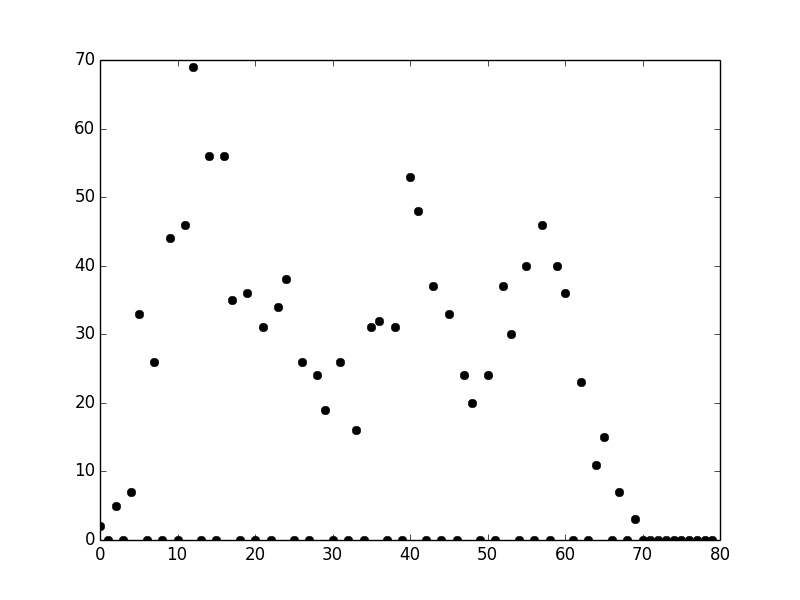
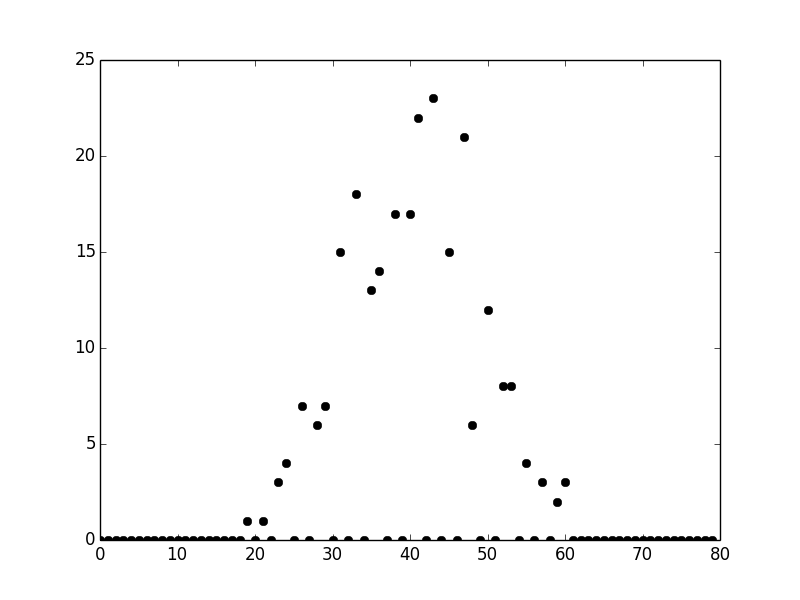
Add first serious midi file example
- one walker
- constant notelength
- constant scale

diff --git a/merw.py b/merw.py
@@ -1,6 +1,7 @@
 import numpy as np
 import matplotlib.pyplot as plt
 from potentials import *
+from merwmidi import make_midi
 
 class Merw(object):
     def __init__(self, size):
@@ -23,6 +24,7 @@ class Merw(object):
 
 if __name__ == '__main__':
 
+    N_ = 80
     # Calculate probability matix holding S
     merw = Merw(N_)
 
@@ -31,6 +33,8 @@ if __name__ == '__main__':
 
     # Prepare list of indexes
     values = range(N_)
+    # Pitches are what we actually calculate
+    pitches = [x + 30 for x in values]
 
     # Merw starting position set
     pos = 33
@@ -40,14 +44,14 @@ if __name__ == '__main__':
 
     # Prepare meta potential for testing
     # Number of iterations
-    N_ = 1250
+    N_ = 250
     def meta_pot(it):
         ret = 70.0 * (0.5 * (1.0 + np.cos(8.*it*np.pi/N_)))
         #print ret
         return ret
 
     for it in range(N_):
-        if (it%50 == 1):
+        if (it%50 == 0):
             print it, '/', N_, 'current position: ', pos
 
         # Histogram
@@ -59,6 +63,11 @@ if __name__ == '__main__':
 
         # Switcheroo
         pos = next_pos
+
+    # Create final pitches vector
+    merw_pitches = [pitches[pos] for pos in positions]
+    # Make midi file with calculated pitches
+    make_midi(merw_pitches)
 
 
     #S = merw.get_S(); plt.imshow(S); plt.show()

diff --git a/potentials.py b/potentials.py
@@ -36,20 +36,25 @@ class E_potential(object):
     def __init__(self, size):
         self.size = size
         self.prefered = 0
-        self.calc_A()
+
+        # Initialize interaction grid (piano keys)
+        self.scale = [1, 0, 1, 0, 1, 1, 0, 1, 0, 1, 0, 1]
+
+        # Based on that generate probability matrix S
 #        self.simple_A()
         self.calc_S()
 
+    def set_scale_shift(self, shift):
+        self.scale = np.roll(self.scale, shift)
+
     def set_prefered(self, prefered):
         self.prefered = prefered
-        self.calc_A()
         self.calc_S()
 
     def they_interact(self, i, j):
-        scale = [1, 0, 1, 0, 1, 1, 0, 1, 0, 1, 0, 1]
-        n = len(scale)
+        n = len(self.scale)
 
-        if scale[i%n] == scale[j%n] == 1: # Nice python!
+        if self.scale[i%n] == self.scale[j%n] == 1: # Nice python!
             return True
         # Else
         return False
@@ -97,6 +102,7 @@ class E_potential(object):
         self.A = A
 
     def calc_S(self):
+        self.calc_A()
         S = np.zeros(self.A.shape)
         d, V = lg.eigh(self.A, eigvals = (self.size-1, self.size-1))
         for it in range(self.size):

diff --git a/merwmidi.py b/merwmidi.py
@@ -1,0 +1,39 @@
+import numpy as np
+#Import the library
+from midiutil.MidiFile import MIDIFile
+
+def make_midi(pitches):
+    # Create the MIDIFile Object
+    MyMIDI = MIDIFile(1)
+
+    # Add track name and tempo. The first argument to addTrackName and
+    # addTempo is the time to write the event.
+    track = 0
+    time = 0
+    MyMIDI.addTrackName(track,time,"Sample Track")
+    MyMIDI.addTempo(track,time, 120)
+
+    # Add a note. addNote expects the following information:
+    channel = 0
+    pitch = 60
+    duration = 1
+    volume = 100
+
+    # Add a note. addNote expects the following information:
+    channel = 0
+    pitch = 60
+    duration = 0.25
+    volume = 100
+
+    # Now add the note.
+    for it in range(len(pitches)):
+        time = it * duration
+        pitch = pitches[it]
+        volume = 90 + 30 *np.cos(2*np.pi*it/10)
+#        print 'time:',time, 'pitch:', pitch
+        MyMIDI.addNote(track,channel,pitch,time,duration,volume)
+
+    # And write it to disk.
+    binfile = open("output.mid", 'wb')
+    MyMIDI.writeFile(binfile)
+    binfile.close()
